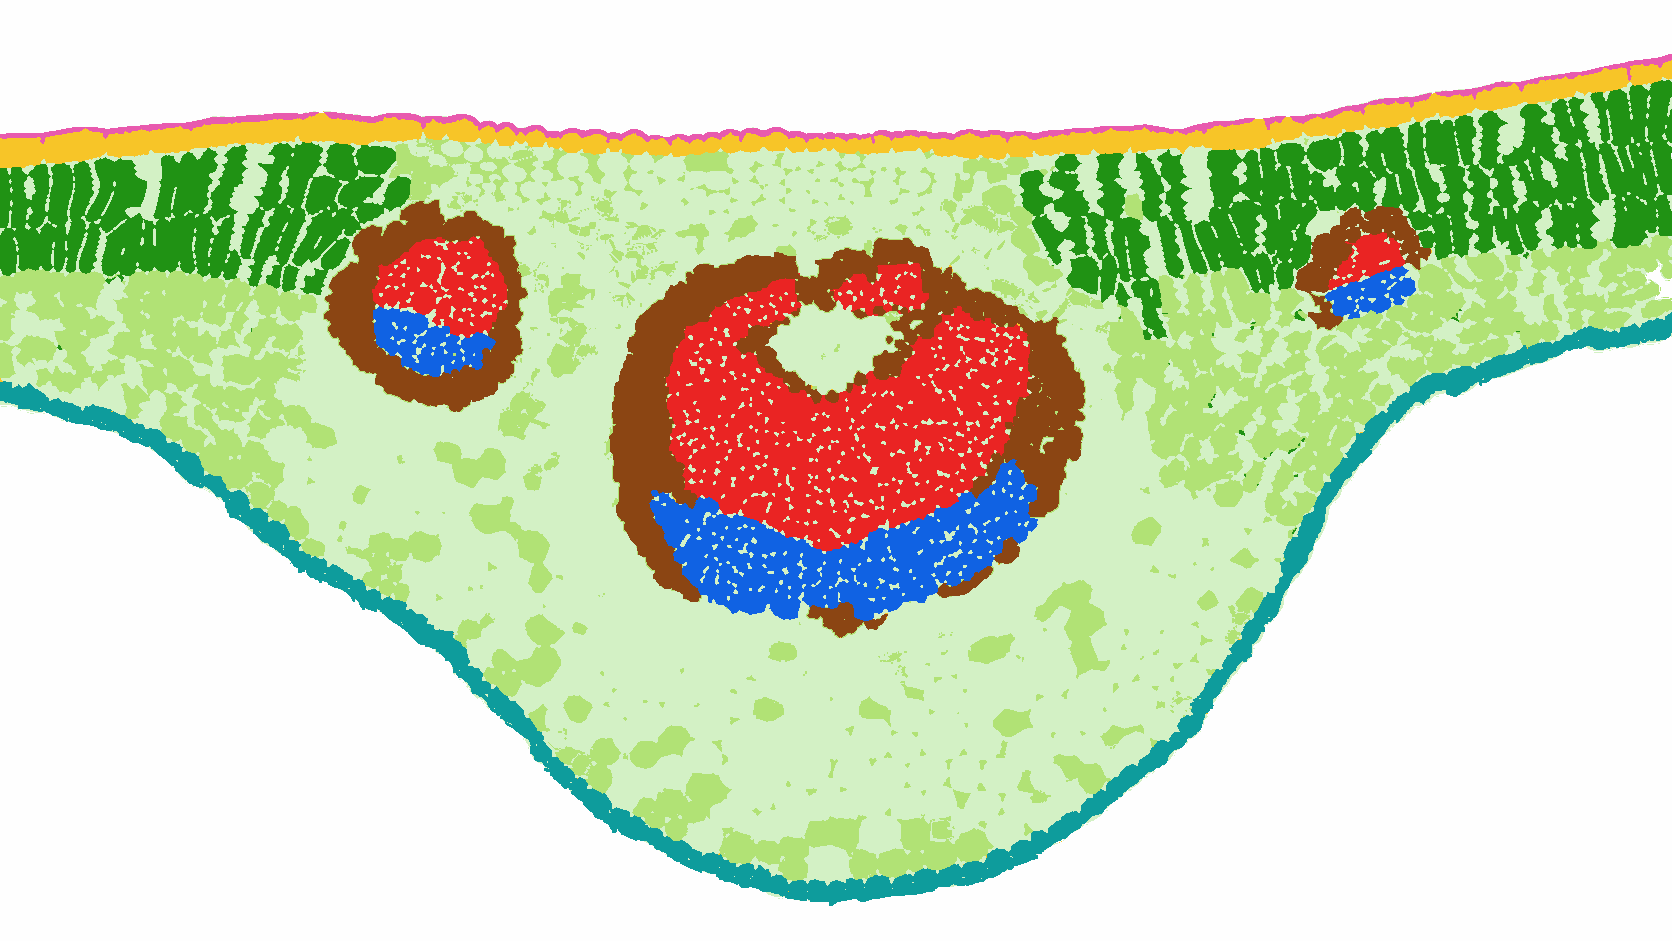
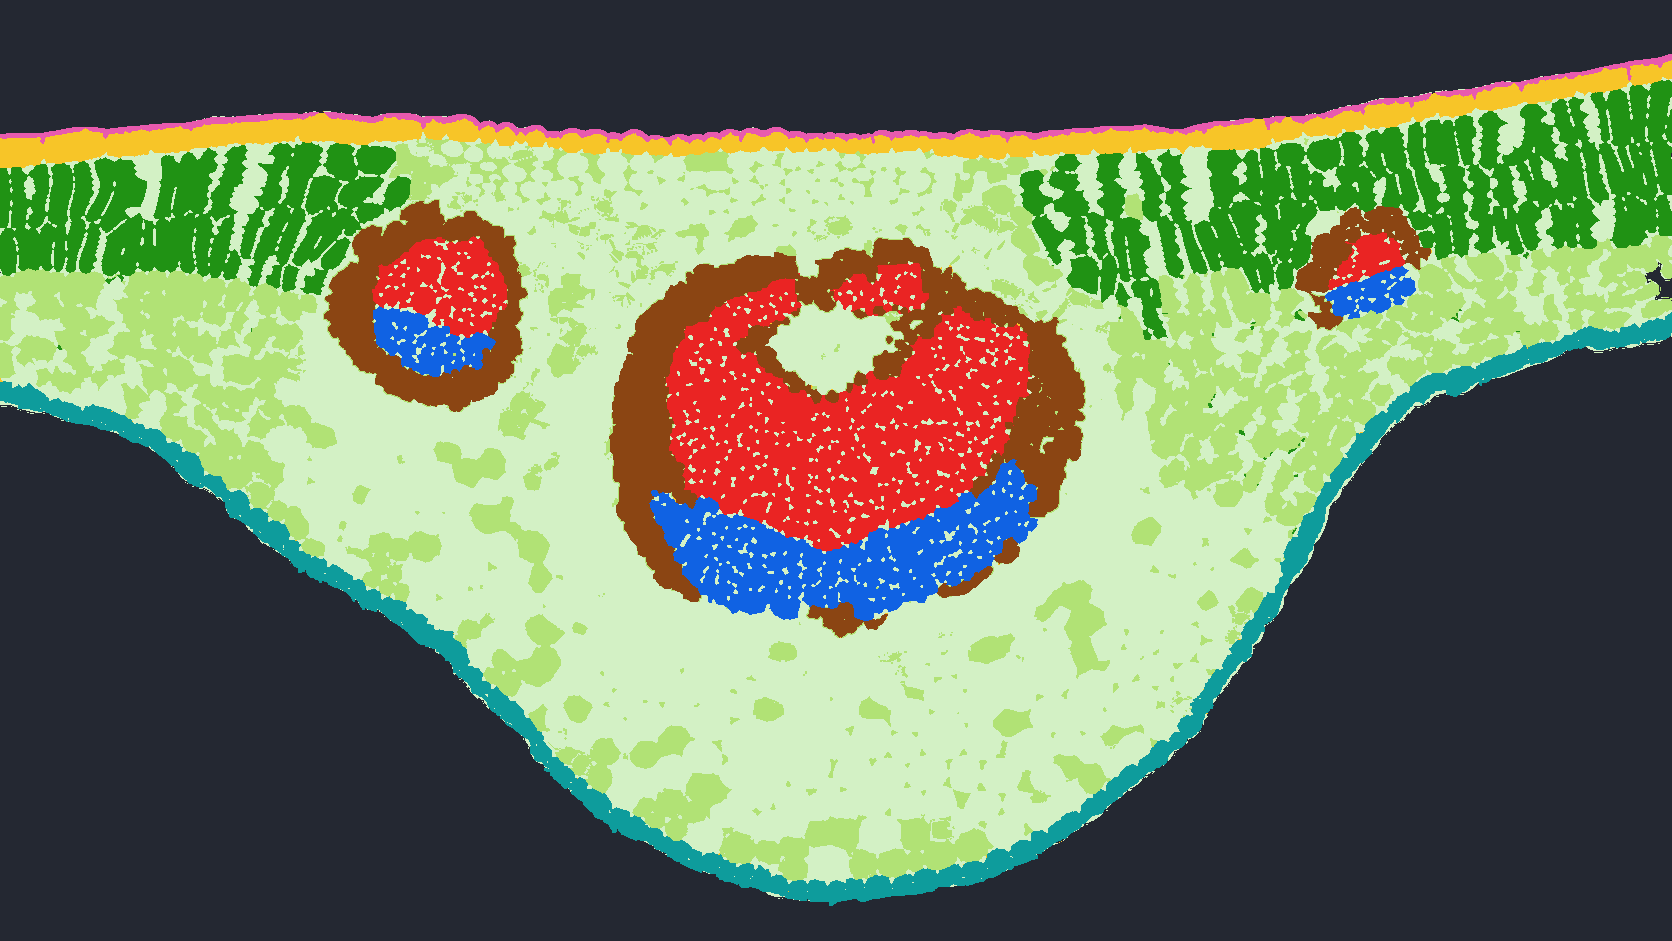
Mark leaf exterior as an 'outside the section' category with its own message (was mislabeled intercellular space)

diff --git a/index.html b/index.html
@@ -318,6 +318,8 @@
                     palette.push({ key: "intercellular space / background", color: bg, kind: "background" });
                 if (slide.unclassified_color)
                     palette.push({ key: "unclassified region", color: slide.unclassified_color, kind: "unclassified" });
+                if (slide.outside_color)
+                    palette.push({ key: "outside the section", color: slide.outside_color, kind: "outside" });
 
                 objectiveSelect.innerHTML = "";
                 slide.tissues.forEach((t, i) => {
@@ -448,7 +450,8 @@
                 const currentLore = botanicalLore[detectedLayer] || {};
                 const goalLore = botanicalLore[targetKey] || {};
                 const currentName = meta ? meta.name
-                    : (detectedLayer === "unclassified region" ? "an unlabeled area" : "intercellular space");
+                    : (detectedLayer === "outside the section" ? "outside the section"
+                    : (detectedLayer === "unclassified region" ? "an unlabeled area" : "intercellular space"));
 
                 audioStatus.textContent = "🧠 Rachel is preparing explanation...";
 
@@ -474,9 +477,11 @@
                     }
                 } else {
                     if (!meta) {
-                        feedbackText = detectedLayer === "unclassified region"
-                            ? "This area isn't part of a labeled tissue yet — try moving toward a colored region."
-                            : "This is intercellular space, between the labeled tissues. Keep exploring.";
+                        feedbackText = detectedLayer === "outside the section"
+                            ? "You're just outside the section — move onto the leaf to explore a tissue."
+                            : (detectedLayer === "unclassified region"
+                                ? "This area isn't part of a labeled tissue yet — try moving toward a colored region."
+                                : "This is intercellular space, between the labeled tissues. Keep exploring.");
                         audioStatus.style.color = "#94a3b8";
                     } else {
                         const detail = (depthMode === "advanced" ? currentLore.advanced : currentLore.beginner) || "";